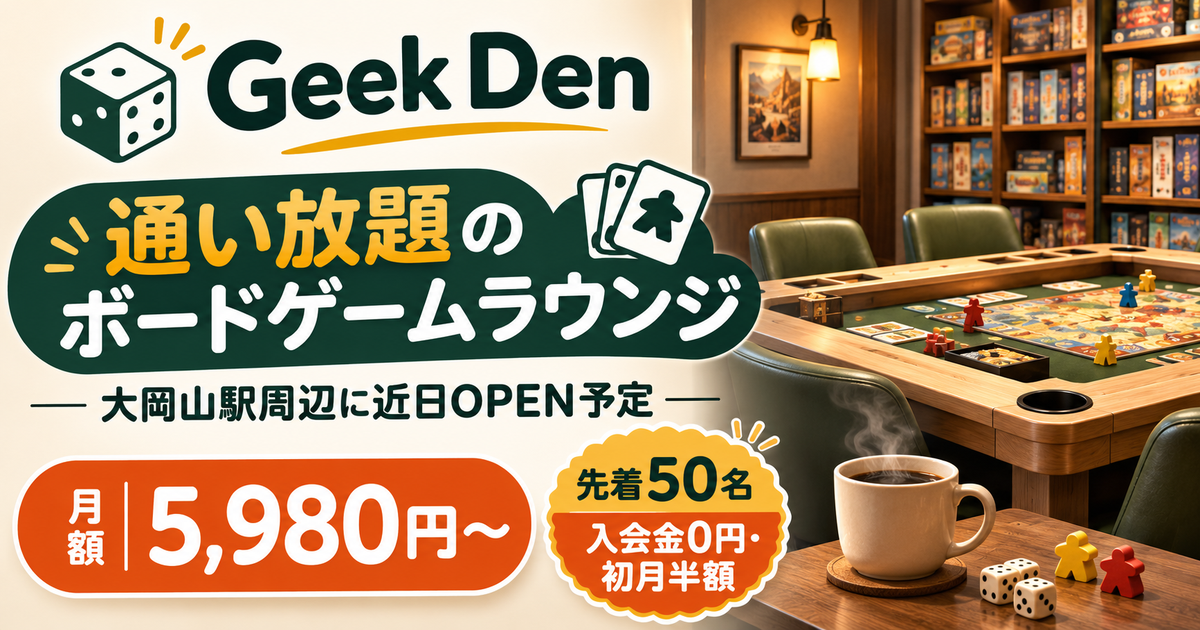
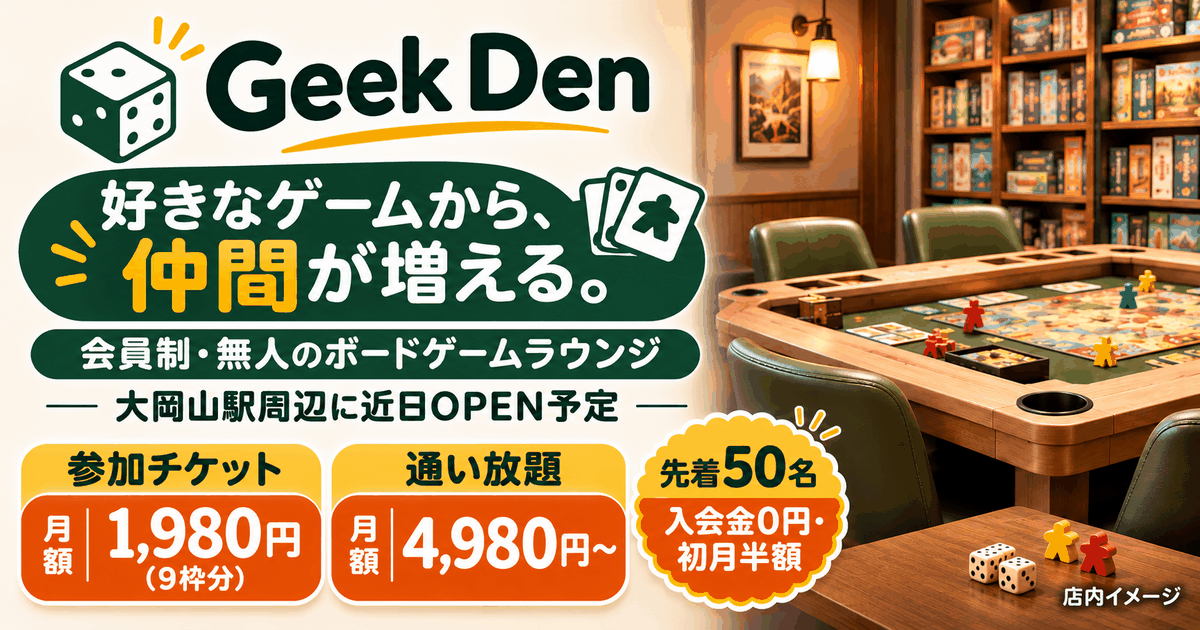
OGP画像を更新（1200x630に圧縮）し、メタ情報を合わせる
- ogp.png を新しい画像（コーヒーなし・9枠分表記）に差し替え
- og:image のURLを ?v=20261124c に変更し、サイズと代替テキストを更新

diff --git a/index.html b/index.html
@@ -14,10 +14,10 @@
 <meta property="og:title" content="Geek Den｜好きなゲームから、仲間が増える。">
 <meta property="og:description" content="ボドゲ好きの、新しい居場所。遊びたいゲームで仲間を募集、気になるゲーム会に参加。大岡山駅周辺に近日OPEN予定。参加専用は月額1,980円・月9枠、通い放題は4,980円〜。">
 <meta property="og:url" content="https://www.geekden.jp/">
-<meta property="og:image" content="https://www.geekden.jp/images/ogp.png?v=20261121b">
+<meta property="og:image" content="https://www.geekden.jp/images/ogp.png?v=20261124c">
 <meta property="og:image:width" content="1200">
 <meta property="og:image:height" content="630">
-<meta property="og:image:alt" content="Geek Den 大岡山駅周辺に近日OPEN予定 参加チケット月額1,980円・通い放題月額4,980円〜">
+<meta property="og:image:alt" content="Geek Den 好きなゲームから、仲間が増える。会員制・無人のボードゲームラウンジ 大岡山駅周辺に近日OPEN予定 参加チケット月額1,980円（9枠分）・通い放題月額4,980円〜">
 <meta property="og:locale" content="ja_JP">
 <meta name="twitter:card" content="summary_large_image">
 
@@ -34,7 +34,7 @@
   "alternateName": "ギークデン",
   "description": "好きなゲームから、仲間が増える。大岡山駅周辺に近日オープン予定の会員制・無人ボードゲームラウンジ。仲間を募集したり、ゲーム会に参加したりできる。月額1,980円・月9枠の参加チケットプランと、月額4,980円〜の通い放題プランを用意。通い放題プランにはゲスト利用や追加の卓予約に使えるチケットが毎月2〜5枚付き。",
   "url": "https://www.geekden.jp/",
-  "image": "https://www.geekden.jp/images/ogp.png?v=20261121b",
+  "image": "https://www.geekden.jp/images/ogp.png?v=20261124c",
   "priceRange": "月額1,980円〜",
   "openingHoursSpecification": [{
     "@type": "OpeningHoursSpecification",
